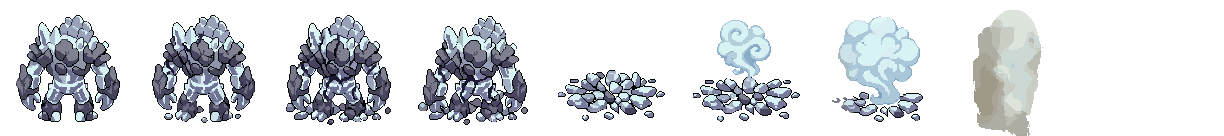
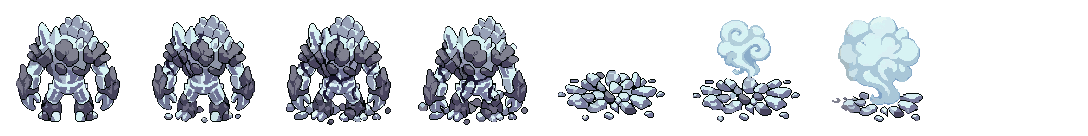
monsters: trim die-tail cloud frames (20 frames, 2 monsters) in postprocess
PixelLab sometimes replaces the end of a fade-away die animation with big
off-animation cloud/mist frames — occasionally followed by more garbage (a
tornado, or the monster standing alive again). postprocess.py gains a
die-tail trim stage: cuts are HUMAN-ADJUDICATED and pinned in
config/die_trims.json (automated metrics cannot separate these clouds from
intended dissolve art — same palette, same posterization), guarded by the
direction's take id + original frame count so a regenerated animation is
re-reviewed instead of blindly cut. Remaining frames renumber, strips/GIFs
and the rotating GIF rebuild, and monster.json records postprocess.die_trim.

Applied: ice_crystal_golem all 8 directions (die now ends on the crystal
pile; the south tail had cloud+cloud+tornado+revived-golem), stone_golem
NE/NW/S/SE/SW (final giant dust-cloud frame). Tails that end with the
monster REVIVING (hedgehog, white_rabbit, water_poring, stone_turtle south,
stone_golem E/W/N) are intentionally NOT cut — the maintainer asked for
cloud frames only — but the pipeline flags them every sync pending a
decision; tree_stump's settling mound is pinned reviewed-ok.

Claude-Session: https://claude.ai/code/session_019gU2n9WDWHCokuyfZrVA9R

diff --git a/monsters/pipeline/postprocess.py b/monsters/pipeline/postprocess.py
@@ -53,6 +53,7 @@ from mirror import ROOT, monster_dir, read_manifest, write_manifest
 from pixellab_client import DIRECTIONS_8
 
 OVERRIDES = os.path.join(ROOT, "config", "wrap_overrides.json")
+DIE_TRIMS = os.path.join(ROOT, "config", "die_trims.json")
 
 ACCEPT_OVERLAP = 0.75
 MIN_STRIP_PX = 3
@@ -356,12 +357,106 @@ def process_monster(mid, dry_run=False):
     return {"fixes": n_fixes, "canvas": canvas}
 
 
+# --- die-tail cloud trim -----------------------------------------------------
+#
+# PixelLab sometimes replaces the end of a fade-away die animation with big
+# off-animation cloud/mist frames (occasionally followed by more garbage: a
+# tornado, or the monster standing alive again). Cuts are HUMAN-ADJUDICATED
+# and pinned in config/die_trims.json — automated metrics cannot reliably
+# separate these clouds from intended dissolve art (same palette, same
+# posterization), so the pipeline only auto-FLAGS suspicious tails for review
+# and applies the pinned cuts. Pins are guarded by the direction's take id
+# (`sub`) and original frame count, so a regenerated animation is re-reviewed
+# instead of blindly cut.
+
+def _die_trim_flag(areas):
+    """True if a die tail looks suspicious (collapse-then-rebound): review it."""
+    if len(areas) < 4:
+        return False
+    base = max(1, int(np.median(areas[:3])))
+    lo = min(areas[2:]) / base
+    return lo < 0.4 and areas[-1] / base > 0.7
+
+
+def trim_die_tails(mid, dry_run=False):
+    meta = read_manifest(mid)
+    if not meta or "die" not in (meta.get("animations") or {}):
+        return 0
+    cuts, reviewed_ok = {}, set()
+    if os.path.exists(DIE_TRIMS):
+        with open(DIE_TRIMS) as f:
+            doc = json.load(f)
+        cuts = doc["cuts"]
+        reviewed_ok = set(doc.get("reviewed_ok") or [])
+    pp = meta.get("postprocess") or {}
+    applied = pp.get("die_trim") or {}
+    mdir = monster_dir(mid)
+    a = meta["animations"]["die"]
+    removed_total = 0
+    touched = False
+    for d, rec in sorted((a.get("directions") or {}).items()):
+        fdir = os.path.join(mdir, "animations", "die", d)
+        files = sorted(f for f in os.listdir(fdir) if f.endswith(".png"))
+        pin = cuts.get(f"{mid}/{d}")
+        if pin:
+            if rec.get("sub") != pin.get("sub"):
+                print(f"  !! {mid}: die/{d} was REGENERATED on PixelLab — trim pin "
+                      f"stale, review the new tail (config/die_trims.json)")
+            elif len(files) == pin["of"]:
+                keep = [f for i, f in enumerate(files) if i not in set(pin["drop"])]
+                print(f"  {mid}: die/{d} cutting frame(s) "
+                      f"{','.join(f'f{i:02d}' for i in pin['drop'])} "
+                      f"({len(files)} -> {len(keep)})")
+                removed_total += len(files) - len(keep)
+                if not dry_run:
+                    frames = [Image.open(os.path.join(fdir, f)).convert("RGBA")
+                              for f in keep]
+                    for f in files:
+                        os.remove(os.path.join(fdir, f))
+                    for i, fr in enumerate(frames):
+                        fr.save(os.path.join(fdir, f"{i:02d}.png"))
+                    rec["frames"] = len(frames)
+                    rec["frame_paths"] = [
+                        os.path.join(mid, "animations", "die", d, f"{i:02d}.png")
+                        for i in range(len(frames))]
+                    mirror._save_strip(frames, os.path.join(
+                        mdir, "animations", f"die__{d}.png"))
+                    mirror._save_gif(frames, os.path.join(
+                        mdir, "animations", f"die__{d}.gif"))
+                    applied[d] = {"dropped": pin["drop"], "sub": pin.get("sub")}
+                    touched = True
+            elif d not in applied:
+                print(f"  !! {mid}: die/{d} has {len(files)} frames, pin expects "
+                      f"{pin['of']} — skipped")
+            continue
+        # no pin: flag suspicious tails for human review
+        areas = []
+        for f in files:
+            im = np.asarray(Image.open(os.path.join(fdir, f)).convert("RGBA"))
+            areas.append(int((im[..., 3] > 8).sum()))
+        if f"{mid}/{d}" not in reviewed_ok and _die_trim_flag(areas):
+            print(f"  !! {mid}: die/{d} tail looks wrong (collapse-then-rebound) — "
+                  f"review and pin a cut in config/die_trims.json if it's garbage")
+    if touched and not dry_run:
+        frames_by_dir = {}
+        for d in a["directions"]:
+            fdir = os.path.join(mdir, "animations", "die", d)
+            frames_by_dir[d] = [Image.open(os.path.join(fdir, f)).convert("RGBA")
+                                for f in sorted(os.listdir(fdir)) if f.endswith(".png")]
+        mirror.save_rotating_gif(frames_by_dir,
+                                 os.path.join(mdir, "animations", "die__rotating.gif"))
+        pp["die_trim"] = applied
+        meta["postprocess"] = pp
+        write_manifest(mid, meta)
+    return removed_total
+
+
 def main():
     ap = argparse.ArgumentParser(description="Repair wrap-around overflow artifacts.")
     ap.add_argument("--monster", help="only this monster id")
     ap.add_argument("--dry-run", action="store_true")
     args = ap.parse_args()
-    total = 0
+    total = trimmed = 0
     for mid in sorted(os.listdir(ROOT)):
         if args.monster and mid != args.monster:
             continue
@@ -370,7 +465,9 @@ def main():
         r = process_monster(mid, dry_run=args.dry_run)
         if r:
             total += r["fixes"]
-    print(f"total: {total} fix(es){' (dry run)' if args.dry_run else ''}")
+        trimmed += trim_die_tails(mid, dry_run=args.dry_run)
+    print(f"total: {total} wrap fix(es), {trimmed} die frame(s) trimmed"
+          f"{' (dry run)' if args.dry_run else ''}")
 
 
 if __name__ == "__main__":

diff --git a/monsters/pipeline/sync.py b/monsters/pipeline/sync.py
@@ -232,9 +232,10 @@ def sync(client, fresh=False, dry_run=False, only=None):
         mirror.mirror(client, m["id"], m["kind"], m["pixellab_id"],
                       renames=m.get("renames"), name=m.get("name"),
                       direction_picks=m.get("direction_picks"))
-        # repair wrap-around overflow on freshly mirrored (native-canvas)
-        # frames — see postprocess.py; re-reads the manifest it may rewrite
+        # repair wrap-around overflow + pinned die-tail cloud cuts on freshly
+        # mirrored frames — see postprocess.py; re-reads the manifest they rewrite
         postprocess.process_monster(m["id"])
+        postprocess.trim_die_tails(m["id"])
         metas.append(read_manifest(m["id"]))
 
     if dry_run:
